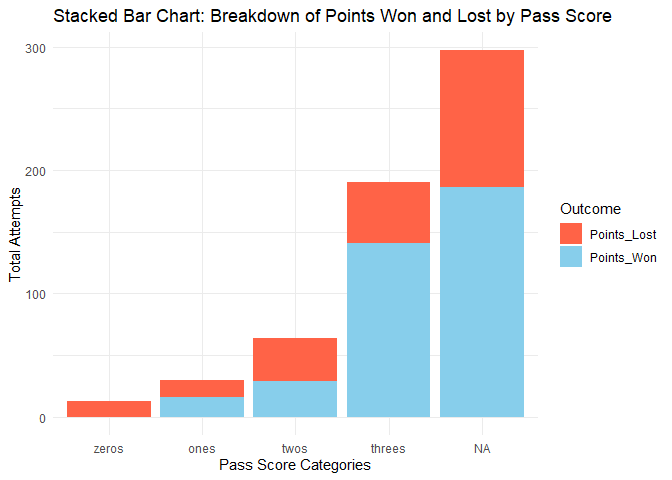
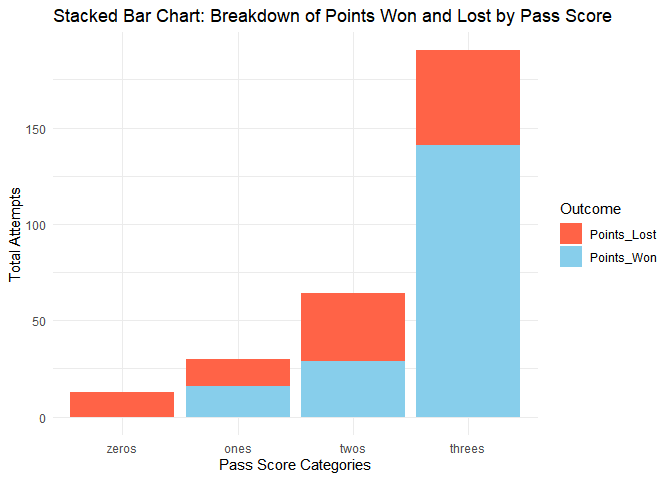
Resolving NA Issues

diff --git a/Projects/JungiHong/Yue_Z9.md b/Projects/JungiHong/Yue_Z9.md
@@ -9,16 +9,6 @@
     ## ℹ Use the conflicted package (<http://conflicted.r-lib.org/>) to force all conflicts to become errors
     ## New names:
 
-    ## Warning: There were 3 warnings in `mutate()`.
-    ## The first warning was:
-    ## ℹ In argument: `Attempts = as.numeric(Attempts)`.
-    ## Caused by warning:
-    ## ! 强制改变过程中产生了NA
-    ## ℹ Run `dplyr::last_dplyr_warnings()` to see the 2 remaining warnings.
-
-    ## Warning: Removed 2 rows containing missing values or values outside the scale range
-    ## (`geom_bar()`).
-
 ![](Yue_Z9_files/figure-markdown_strict/pressure-1.png)
 
     ## New names:
